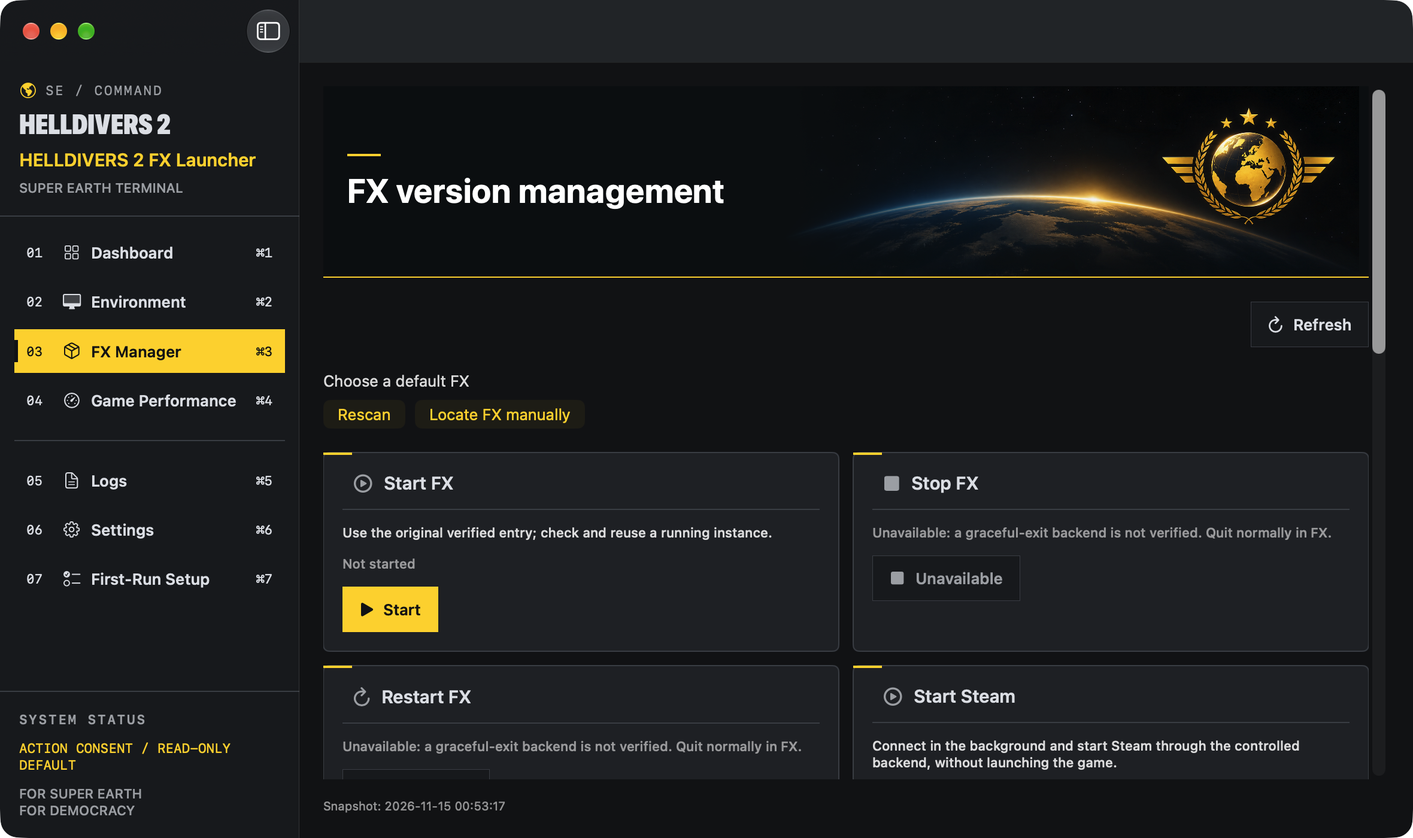
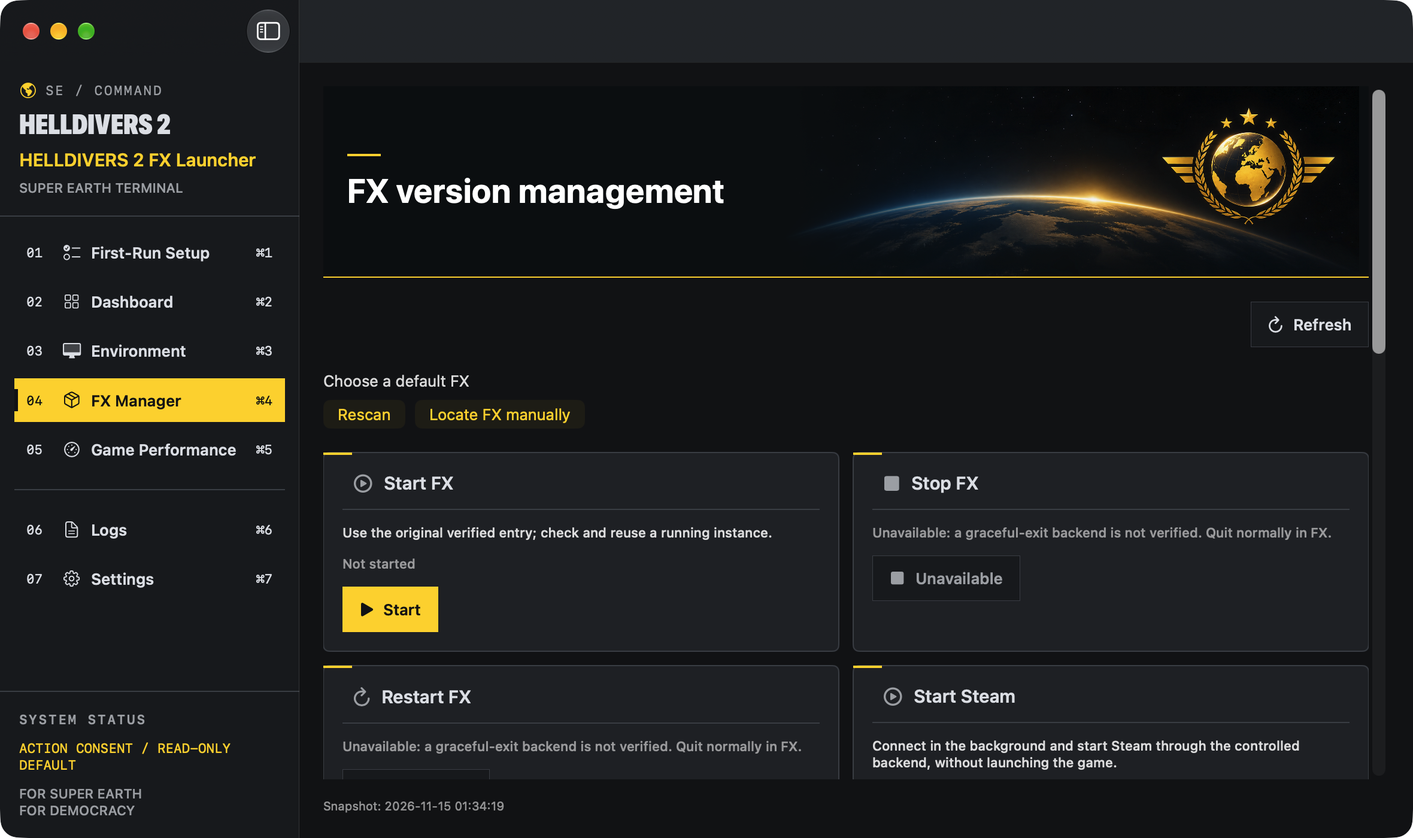
ui: redesign tactical workflows and reorder navigation

diff --git a/native-app/Views/FirstRunSetupView.swift b/native-app/Views/FirstRunSetupView.swift
@@ -4,6 +4,7 @@ struct FirstRunSetupView: View {
     @ObservedObject var state: AppState
     @ObservedObject var tasks: TaskManager
     @ObservedObject var credentials: SessionCredentialManager
+    @Environment(\.colorScheme) private var scheme
     @State private var authorize = false
     @State private var fexAction: String?
     @State private var recoverID: UUID?
@@ -49,54 +50,66 @@ struct FirstRunSetupView: View {
         return state.firstRunState == .NotChecked ? "ui.workflow.idle" : "ui.setup.state." + state.firstRunState.rawValue
     }
     private var welcomeContent: some View {
-        VStack(alignment: .leading, spacing: 20) {
+        VStack(alignment: .leading, spacing: 16) {
             TacticalFlowMark()
-            Text(state.t("ui.art.welcomeTitle")).font(.system(size: 25, weight: .bold))
-            Text(state.t("ui.art.welcomeDetail")).foregroundStyle(.secondary)
-            TacticalPanel(number: "", title: state.t("ui.workflow.environment"), symbol: "checkmark.shield") {
-                TacticalInfoRow(title: "FX", value: state.t(state.fxSelection.selected != nil ? "ui.219" : "ui.210"))
-                TacticalInfoRow(title: "SteamOS", value: state.t(state.credentials.guestBoot != nil ? "ui.credentials.status.connected" : "ui.credentials.status.idle"))
-                TacticalInfoRow(title: state.t("ui.135"), value: state.t(setupStatusKey))
-            }
-            TacticalPanel(number: "", title: state.t("ui.workflow.configure"), symbol: "wrench.and.screwdriver") {
+            Text(state.t("ui.art.welcomeTitle"))
+                .font(.system(size: 29, weight: .heavy)).fixedSize(horizontal: false, vertical: true)
+            Text(state.t("ui.art.welcomeDetail")).font(.body).foregroundStyle(.secondary)
+                .fixedSize(horizontal: false, vertical: true)
+            HStack(alignment: .center, spacing: 12) {
+                Image(systemName: "checkmark.shield").font(.title2).foregroundStyle(TacticalColors(scheme: scheme).accent).accessibilityHidden(true)
+                VStack(alignment: .leading, spacing: 5) {
+                    Text(state.t("ui.workflow.environment")).font(.headline)
+                    VStack(alignment: .leading, spacing: 3) {
+                        HStack(alignment: .top) { Text(verbatim: "FX"); Text(state.t(state.fxSelection.selected != nil ? "ui.219" : "ui.210")) }
+                        HStack(alignment: .top) { Text(verbatim: "SteamOS"); Text(state.t(state.credentials.guestBoot != nil ? "ui.credentials.status.connected" : "ui.credentials.status.idle")) }
+                    }.font(.caption).foregroundStyle(.secondary).fixedSize(horizontal: false, vertical: true)
+                    Text(state.t(setupStatusKey)).font(.caption).foregroundStyle(.secondary)
+                }
+            }.padding(.vertical, 4)
+            VStack(alignment: .leading, spacing: 0) {
+                Text(state.t("ui.workflow.configure")).font(.headline).padding(.bottom, 8)
                 TacticalFlowStep(number: "01", title: state.t("ui.setup.fx"), symbol: "shippingbox")
                 TacticalFlowStep(number: "02", title: state.t("ui.setup.detect"), symbol: "magnifyingglass")
                 TacticalFlowStep(number: "03", title: state.t("ui.setup.deploy"), symbol: "wrench.and.screwdriver")
                 TacticalFlowStep(number: "04", title: state.t("ui.workflow.result"), symbol: "checkmark.shield")
-                TacticalButton(title: state.t("ui.workflow.begin"), symbol: "play.fill", primary: true, disabledReason: tasks.busy ? state.t("ui.014") : nil, fillsWidth: true) {
-                    state.startEnvironmentWorkflow(launchGame: false)
-                }
             }
-            TacticalFlowMark()
+            TacticalButton(title: state.t("ui.workflow.begin"), symbol: "play.fill", primary: true, disabledReason: tasks.busy ? state.t("ui.014") : nil, fillsWidth: true) {
+                state.startEnvironmentWorkflow(launchGame: false)
+            }
             EnvironmentWorkflowProgressView(state: state, tasks: tasks)
+            TacticalFlowFooter()
         }
     }
     private func completionContent(_ plan: DeploymentPlan) -> some View {
-        VStack(alignment: .leading, spacing: 20) {
+        VStack(alignment: .leading, spacing: 16) {
             TacticalFlowMark()
-            Text(state.t("ui.art.completedTitle")).font(TacticalTypography.module)
-            Text(state.t("ui.setup.acceptance")).foregroundStyle(.secondary)
-            TacticalPanel(number: "", title: state.t("ui.workflow.environment"), symbol: "checkmark.shield") {
-                ForEach(plan.operations) { operation in
-                    TacticalInfoRow(title: state.t("ui.setup.component." + operation.component), value: state.t(statusKey(operation)))
+            HStack(alignment: .center, spacing: 16) {
+                Image(systemName: "checkmark.seal.fill").font(.system(size: 48)).foregroundStyle(TacticalColors(scheme: scheme).accent).accessibilityHidden(true)
+                Text(state.t("ui.art.completedTitle")).font(.system(size: 27, weight: .heavy))
+                    .fixedSize(horizontal: false, vertical: true)
+            }
+            Text(state.t("ui.setup.acceptance")).foregroundStyle(.secondary).fixedSize(horizontal: false, vertical: true)
+            VStack(alignment: .leading, spacing: 0) {
+                Text(state.t("ui.workflow.environment")).font(.headline).padding(.bottom, 9)
+                ForEach(Array(plan.operations.enumerated()), id: \.element.id) { index, operation in
+                    HStack(spacing: 10) {
+                        Text(String(format: "%02d", index + 1)).font(TacticalTypography.log).foregroundStyle(TacticalColors(scheme: scheme).accent).accessibilityHidden(true)
+                        Text(state.t("ui.setup.component." + operation.component)).fixedSize(horizontal: false, vertical: true)
+                        Spacer(minLength: 8)
+                        Text(state.t(statusKey(operation))).font(.caption.weight(.semibold)).multilineTextAlignment(.trailing)
+                    }.padding(.vertical, 7)
+                    TacticalDivider()
                 }
             }
-            ViewThatFits(in: .horizontal) {
-                HStack(spacing: 10) { completionActions }
-                VStack(alignment: .leading, spacing: 10) { completionActions }
-            }
-            TacticalFlowMark()
-        }
-    }
-    private var completionActions: some View {
-        Group {
-            TacticalButton(title: state.t("ui.176"), symbol: "play.fill", primary: true, disabledReason: tasks.busy ? state.t("ui.014") : nil) {
+            TacticalButton(title: state.t("ui.176"), symbol: "play.fill", primary: true, disabledReason: tasks.busy ? state.t("ui.014") : nil, fillsWidth: true) {
                 state.selection = .dashboard
                 state.perform(.game)
             }
             TacticalButton(title: state.t("ui.workflow.retry"), symbol: "arrow.clockwise", primary: false, disabledReason: tasks.busy ? state.t("ui.014") : nil) {
                 state.startEnvironmentWorkflow(launchGame: false)
             }
+            TacticalFlowFooter()
         }
     }
     var body: some View {
@@ -267,6 +280,7 @@ struct FirstRunSetupView: View {
 struct EnvironmentWorkflowProgressView: View {
     @ObservedObject var state: AppState
     @ObservedObject var tasks: TaskManager
+    @Environment(\.colorScheme) private var scheme
     var showIdle = false
     var showStepsInline = false
     var returnToDashboard: (() -> Void)? = nil
@@ -275,8 +289,15 @@ struct EnvironmentWorkflowProgressView: View {
     private var stepRows: some View {
         ForEach(Array([EnvironmentWorkflowPhase.startingFX, .connecting, .detecting, .deploying, .verifying, .launching].prefix(workflow.totalSteps).enumerated()), id: \.offset) { index, phase in
             let stepKeys = ["ui.setup.fx", "ui.setup.connect", "ui.setup.detect", "ui.setup.deploy", "ui.workflow.result", "ui.176"]
-            Label(state.t(stepKeys[index]), systemImage: index < workflow.completedSteps ? "checkmark.circle" : workflow.active && phase == workflow.phase ? "arrow.right.circle" : "circle.dashed")
-                .font(TacticalTypography.caption)
+            let done = index < workflow.completedSteps
+            let current = workflow.active && phase == workflow.phase
+            HStack(spacing: 10) {
+                Text(String(format: "%02d", index + 1)).font(TacticalTypography.log).foregroundStyle(.secondary).accessibilityHidden(true)
+                Label(state.t(stepKeys[index]), systemImage: done ? "checkmark.circle.fill" : current ? "arrow.right.circle.fill" : "circle.dashed")
+                    .foregroundStyle(done ? TacticalColors(scheme: scheme).success : current ? TacticalColors(scheme: scheme).accent : Color.secondary)
+                    .font(TacticalTypography.caption.weight(current ? .bold : .regular))
+                Spacer(minLength: 0)
+            }.padding(.vertical, 5)
         }
     }
     private var stepDetails: some View {
@@ -287,12 +308,13 @@ struct EnvironmentWorkflowProgressView: View {
             Text(verbatim: "ID: " + workflow.taskID.uuidString).font(.caption.monospaced()).textSelection(.enabled)
         }
     }
-    var body: some View {
-        if showIdle || workflow.phase != .idle {
-            TacticalPanel(number: "", title: state.t(workflow.launchesGame ? "ui.176" : "ui.workflow.result"), symbol: workflow.launchesGame ? "play.rectangle" : "gearshape.2") {
+    private var workflowContent: some View {
+        VStack(alignment: .leading, spacing: 12) {
                 HStack {
-                    Text(workflow.phase == .launching ? state.launchSession.current.title(state.languageCode) :
-                         state.t(workflow.launchesGame && workflow.phase == .failed ? "ui.179" : workflow.phase.titleKey))
+                    if !showStepsInline || workflow.phase == .launching {
+                        Text(workflow.phase == .launching ? state.launchSession.current.title(state.languageCode) :
+                             state.t(workflow.launchesGame && workflow.phase == .failed ? "ui.179" : workflow.phase.titleKey))
+                    }
                     Spacer()
                     if workflow.showsProgress { Text("\(workflow.completedSteps) / \(workflow.totalSteps)").monospacedDigit() }
                 }
@@ -303,7 +325,7 @@ struct EnvironmentWorkflowProgressView: View {
                     }
                 }
                 if workflow.active {
-                    ProgressView().tint(.yellow)
+                    ProgressView().tint(TacticalColors(scheme: scheme).accent)
                 }
                 if let failure = workflow.failure {
                     Text(failure.code == "ARTIFACT_UNAPPROVED" && failure.details["component"]?.text == "fex"
@@ -339,6 +361,29 @@ struct EnvironmentWorkflowProgressView: View {
                     Button(state.t(workflow.launchesGame ? "ui.176" : "ui.workflow.retry")) {
                         state.startEnvironmentWorkflow(launchGame: workflow.launchesGame)
                     }.disabled(tasks.busy)
+                }
+        }.frame(maxWidth: .infinity, alignment: .leading)
+    }
+    var body: some View {
+        if showIdle || workflow.phase != .idle {
+            Group {
+                if showStepsInline {
+                    VStack(alignment: .leading, spacing: 18) {
+                        HStack(spacing: 12) {
+                            Image(systemName: "scope").font(.system(size: 32)).foregroundStyle(TacticalColors(scheme: scheme).accent).accessibilityHidden(true)
+                            Text(state.t(workflow.phase.titleKey)).font(.system(size: 25, weight: .heavy))
+                                .fixedSize(horizontal: false, vertical: true)
+                        }
+                        TacticalDivider()
+                        workflowContent
+                    }
+                    .padding(18)
+                    .background(.primary.opacity(0.035))
+                    .overlay(alignment: .leading) { Rectangle().fill(TacticalColors(scheme: scheme).accent).frame(width: 3) }
+                } else {
+                    TacticalPanel(number: "", title: state.t(workflow.launchesGame ? "ui.176" : "ui.workflow.result"), symbol: workflow.launchesGame ? "play.rectangle" : "gearshape.2") {
+                        workflowContent
+                    }
                 }
             }
             .sheet(isPresented: Binding(get: { state.pendingFEXApproval != nil && !tasks.busy }, set: { if !$0 { state.cancelFEXApproval() } })) {

diff --git a/native-app/App/DesignSystem/TacticalComponents.swift b/native-app/App/DesignSystem/TacticalComponents.swift
@@ -336,26 +336,85 @@ struct TacticalFlowArtwork<Content: View>: View {
     let asset: String
     @ViewBuilder let content: Content
     @State private var availableWidth: CGFloat = 0
+    @Environment(\.colorScheme) private var scheme
     var body: some View {
-        HStack(alignment: .top, spacing: 20) {
+        let c = TacticalColors(scheme: scheme)
+        let showArt = availableWidth >= 860
+        let artWidth = min(420, max(320, availableWidth * 0.36))
+        HStack(alignment: .top, spacing: 24) {
             content.fixedSize(horizontal: false, vertical: true).frame(maxWidth: .infinity, alignment: .topLeading)
-            if availableWidth >= 860 {
-                Image(asset)
-                    .resizable().scaledToFit()
-                    .frame(width: 320)
-                    .overlay(RoundedRectangle(cornerRadius: 6).stroke(Color.gray.opacity(0.4)))
-                    .accessibilityHidden(true)
-                    .allowsHitTesting(false)
+            if showArt {
+                VStack(alignment: .trailing, spacing: 8) {
+                    HStack(spacing: 5) {
+                        Rectangle().fill(c.accent).frame(width: 40, height: 3)
+                        Rectangle().fill(c.line).frame(height: 1)
+                        Image(systemName: "star.fill").font(.system(size: 9)).foregroundStyle(c.accent)
+                    }
+                    Image(asset).resizable().scaledToFit().frame(width: artWidth)
+                        .overlay(RoundedRectangle(cornerRadius: 4).stroke(c.line, lineWidth: 1))
+                    TacticalHazardBand().frame(width: 106, height: 9)
+                }
+                .frame(width: artWidth)
+                .accessibilityHidden(true).allowsHitTesting(false)
             }
         }
+        .padding(.horizontal, 18).padding(.vertical, 20)
         .frame(maxWidth: .infinity, alignment: .leading)
         .background {
-            GeometryReader { geometry in
-                Color.clear
+            ZStack {
+                LinearGradient(colors: [c.panel.opacity(0.65), c.background, c.panel.opacity(0.3)], startPoint: .topLeading, endPoint: .bottomTrailing)
+                TacticalFlowBackdrop().foregroundStyle(c.accent.opacity(scheme == .dark ? 0.08 : 0.11))
+                GeometryReader { geometry in
+                    Color.clear
                     .onAppear { availableWidth = geometry.size.width }
                     .onChange(of: geometry.size.width) { _, width in availableWidth = width }
+                }
             }
         }
+        .overlay(alignment: .topLeading) { Rectangle().fill(c.accent).frame(width: 58, height: 3) }
+    }
+}
+
+/// Background graphics are decorative and carry no state or interaction.
+private struct TacticalFlowBackdrop: View {
+    var body: some View {
+        Canvas { context, size in
+            for index in 0..<7 {
+                let x = CGFloat(index) * 105
+                var path = Path(); path.move(to: CGPoint(x: x, y: size.height)); path.addLine(to: CGPoint(x: x + size.height * 0.55, y: 0))
+                context.stroke(path, with: .foreground, lineWidth: 1)
+            }
+        }.accessibilityHidden(true).allowsHitTesting(false)
+    }
+}
+
+struct TacticalHazardBand: View {
+    @Environment(\.colorScheme) private var scheme
+    var body: some View {
+        Canvas { context, size in
+            let color = TacticalColors(scheme: scheme).accent
+            for index in 0..<18 {
+                let x = CGFloat(index) * 16
+                var path = Path(); path.move(to: CGPoint(x: x, y: size.height)); path.addLine(to: CGPoint(x: x + 6, y: 0)); path.addLine(to: CGPoint(x: x + 13, y: 0)); path.addLine(to: CGPoint(x: x + 7, y: size.height)); path.closeSubpath()
+                context.fill(path, with: .color(color))
+            }
+        }.clipped().accessibilityHidden(true).allowsHitTesting(false)
+    }
+}
+
+struct TacticalFlowFooter: View {
+    @Environment(\.colorScheme) private var scheme
+    var body: some View {
+        let c = TacticalColors(scheme: scheme)
+        HStack(alignment: .bottom, spacing: 12) {
+            VStack(alignment: .leading, spacing: 5) {
+                TacticalHazardBand().frame(width: 132, height: 13)
+                Rectangle().fill(c.accent).frame(width: 92, height: 3)
+                Rectangle().fill(c.line).frame(width: 148, height: 1)
+            }
+            Image(systemName: "shield.lefthalf.filled").font(.system(size: 23, weight: .bold)).foregroundStyle(c.accent)
+            Rectangle().fill(c.line).frame(maxWidth: .infinity).frame(height: 1)
+        }.padding(.top, 12).accessibilityHidden(true).allowsHitTesting(false)
     }
 }
 

diff --git a/native-app/Views/DashboardView.swift b/native-app/Views/DashboardView.swift
@@ -27,7 +27,7 @@ struct DashboardView: View {
                     TacticalFlowMark()
                     EnvironmentWorkflowProgressView(state: state, tasks: tasks, showStepsInline: true, returnToDashboard: { showingOverview = true })
                     TacticalButton(title: state.t("ui.092"), symbol: "square.grid.2x2", primary: false) { showingOverview = true }
-                    TacticalFlowMark()
+                    TacticalFlowFooter()
                 }
             }
             if let error = state.error { TacticalWarningBanner(text: error.message(state.languageCode) + " · " + error.code, isError: true) }

diff --git a/native-app/Models/Navigation.swift b/native-app/Models/Navigation.swift
@@ -1,7 +1,7 @@
 import SwiftUI
 
 enum Page: String, CaseIterable, Identifiable {
-    case dashboard, environment, fx, performance, logs, settings, setup
+    case setup, dashboard, environment, fx, performance, logs, settings
     var id: String { rawValue }
     var menuTitle: String { title("en") }
     var symbol: String {

diff --git a/docs/UI_DESIGN_GUIDELINES.md b/docs/UI_DESIGN_GUIDELINES.md
@@ -6,9 +6,15 @@ Read this document before UI development. Reuse the implementation in `native-ap
 
 Keep the dark HELLDIVERS 2 tactical identity, yellow emphasis for primary actions, clear information hierarchy and restrained decoration. Use `TacticalPageHeader` for secondary-page titles and the existing dashboard presentation for the overview. Keep action controls in content areas, aligned consistently, and use adaptive layouts for narrow windows and long translations. Use `TacticalPanel`, metrics and status badges for related evidence; distinguish unchecked, checking, success, warning, failure and uncertainty without inventing health. Approved reference images guide composition and tactical details, while actual service evidence determines all text, actions and states. Reuse `TacticalFlowMark` and `TacticalFlowStep` for restrained numbered and angled accents.
 
+## Navigation and workflow composition
+
+The sidebar order is first-run setup, dashboard, environment, FX manager, game performance, logs and settings. Derive numbering and Command shortcuts from this shared order. Preserve dashboard as the default and do not restart configuration for existing users.
+
+Compose welcome, verified completion and launch preparation as related command-terminal scenes, not generic stacked cards next to an isolated poster. Use a clear primary heading, evidence-bound status, a prominent real action, the complete large right-hand artwork and reusable tactical background and lower-left hazard detail. Distinguish pending, active, completed, failed and cancelled from the actual workflow state. Reference images guide visual hierarchy only; do not introduce fictional states or actions.
+
 ## Artwork and attribution
 
-Keep the Dashboard hero unchanged unless explicitly requested. The shared `TacticalPageHeader` starfield, Earth sunrise, Super Earth emblem, left title and yellow divider are protected; do not replace or cover them with new illustrations. Use `TacticalFlowArtwork` for the first-run welcome, setup completion and game-launch preparation flows: it places artwork at a shared right-hand width and inset, hides it when controls need the space, and follows each source's aspect ratio without large empty bands. Different source proportions require different heights to show complete works without cropping. Preserve original artwork and aspect ratio; never crop, recolor or modify it without authorization. Do not add permanent artwork to the environment, performance, logs or FX-management pages. Decoration must not obscure text, compress controls or block actions. Record third-party authorship and permission, and visually review substantial changes with real App screenshots.
+Keep the Dashboard hero unchanged unless explicitly requested. The shared `TacticalPageHeader` starfield, Earth sunrise, Super Earth emblem, left title and yellow divider are protected; do not replace or cover them with new illustrations. Use `TacticalFlowArtwork` for the first-run welcome, setup completion and game-launch preparation flows: it places artwork at a shared adaptive right-hand width and inset, hides it when controls need the space, and follows each source's aspect ratio without large empty bands. Different source proportions require different heights to show complete works without cropping. Preserve original artwork and aspect ratio; never crop, recolor or modify it without authorization. Do not add permanent artwork to the environment, performance, logs or FX-management pages. Decoration must not obscure text, compress controls or block actions. Record third-party authorship and permission, and visually review substantial changes with real App screenshots.
 
[1 lines of base64/hex data omitted]
 

diff --git a/AGENTS.md b/AGENTS.md
@@ -1,7 +1,7 @@
 # HD2FXNative development rules
 
-Instruction version: **v1.2.29** · Updated: **2026-11-15**.
-Change: combine GitHub delivery and version release gates with reference fidelity, product naming and workflow artwork review. Instruction version is independent of App version.
+Instruction version: **v1.2.30** · Updated: **2026-11-15**.
+Change: establish setup-first navigation and integrated tactical workflow composition. Instruction version is independent of App version.
 
 ## Authority and task lifecycle
 
@@ -58,4 +58,6 @@ All subsequent UI work must first follow `docs/UI_DESIGN_GUIDELINES.md`: read th
 - Review changed pages for visual consistency, action placement and duplication, clipping, loading, errors and accessibility. For ordinary visual iterations inspect Chinese and English in light/dark and wide/narrow layouts; expand review when localization or other languages are affected. Maintain automated checks and all ten languages. Provide real App screenshots for substantial visual changes; routine code changes do not require screenshots. Clearly label fixture previews and never present them as live success.
 
 - Protect the Dashboard hero and the shared secondary-page starfield, sunrise and Super Earth emblem header; never replace or cover them with new illustrations. Restrict MOTR7 artwork to the first-run welcome, verified setup completion and game-launch preparation flows. Place it on the right using the shared adaptive container, consistent size and spacing; hide it when room is insufficient for controls. Preserve the whole original image and its aspect ratio. Record third-party authorship and permission. Workflow success and progress must come from actual service evidence; never fabricate them for presentation. Artwork must not reduce readability or impede actions. Review every substantial visual change with real App screenshots.
+- Keep sidebar order: first-run setup, dashboard, environment, FX, performance, logs, settings; derive visible numbers and Command shortcuts from the same order while keeping the dashboard as the ordinary default.
+- Build the three artwork flows as cohesive command-terminal compositions with reusable lower-left tactical decoration, clear evidence and action hierarchy, and full-size right-hand artwork; do not settle for unrelated standard cards beside a poster.
 - User-facing product names are `绝地潜兵 2 FX 启动器` and `HELLDIVERS 2 FX Launcher`; localize product naming consistently and reserve `HD2FXNative` for engineering. Treat approved reference images as visual guidance, not evidence of functionality or state. Reuse tactical decoration components, avoid isolated miniature posters and meaningless image padding, and preserve complete authorized artwork.

diff --git a/docs/images/README.md b/docs/images/README.md
@@ -74,3 +74,7 @@ The fourteen README page images were recaptured from isolated Debug build 202611
 2026-11-15 merge review: seven idle pages and the software-update viewport per language were recaptured and visually reviewed from the 1.0.2 / 2026111501 isolated Debug candidate (base `afc1158`, integrating main `b967ccd`). Performance screenshots contain read-only hardware and preference values. Setup completion and game launch remain unverified; no FX, SSH, Guest or game action was performed.
 
 2026-11-15 合并审核：中英文各七页和软件更新视口均从 1.0.2 / 2026111501 隔离 Debug 候选重拍并审核（基于 `afc1158`，整合 main `b967ccd`）。性能截图含只读硬件和偏好值；真实配置完成及游戏启动未验证，采集未执行 FX、SSH、Guest 或游戏操作。
+
+2026-11-15 redesign review: seven idle pages per language were visually reviewed after the setup-first sidebar change; the two welcome pages were recaptured after the final status-label adjustment. Build 1.0.2 / 2026111501, dirty source based on `f862623`. Original window pixels, no FX/SSH/Guest/game action. Separately marked DEBUG fixture previews are in `reviews/motr7-redesign-20261115` and do not establish real setup or launch success.
+
+2026-11-15 重新设计审核：中英文七个空闲页面已按新侧边栏顺序审核；欢迎页在状态标签最后调整后重拍。构建 1.0.2 / 2026111501，基于 `f862623` 的未提交源码。保留窗口原始像素，未执行 FX、SSH、Guest 或游戏操作；模拟完成及启动预览单独标注，不代表真实成功。

diff --git a/docs/images/reviews/motr7-redesign-20261115/README.md b/docs/images/reviews/motr7-redesign-20261115/README.md
@@ -1,0 +1,10 @@
+# MOTR7 redesign review captures
+
+Debug 1.0.2 build 2026111501, dirty source based on f862623; screenshots retain original window pixels. Welcome images show real idle App windows with isolated preferences. Completion and launch images are DEBUG-only fixture previews, marked on-screen and with interaction disabled; they do not demonstrate live setup or game success. No FX, SSH, Guest, game or updater action was initiated. The menu shows the updated navigation order.
+
[6 lines of base64/hex data omitted]

diff --git a/README.md b/README.md
@@ -36,7 +36,7 @@ The Dashboard retains five cards: FX, virtual machine, Steam, EAC and multiplaye
 
 ### Features
 
-Unreleased setup and launch workflow artwork is by **MOTR7**, used with the artist’s permission as supplied by the user. The Dashboard hero and shared page header are unchanged.
+Unreleased setup and launch workflow artwork is by **MOTR7**, used with the artist’s permission as supplied by the user. The Dashboard hero and shared page header are unchanged. First-Run Setup is first in the sidebar (⌘1); Dashboard remains the default (⌘2).
 
 **Unreleased UI:** Environment, FX Manager and Logs use a shared content-area snapshot refresh. The FX details view reuses inspection evidence to avoid repeated hashing during redraw.
 

diff --git a/CHANGELOG.md b/CHANGELOG.md
@@ -8,6 +8,8 @@ v1.0.1 (2026111406) is the latest published stable release. Fresh SteamOS deploy
 
 ## Unreleased
 
+- Redesign the setup and launch-preparation scenes as tactical workflow layouts; move First-Run Setup to sidebar position 01 and synchronize Command shortcuts. Dashboard remains the default.
+
 - Add original MOTR7 artwork to setup and launch workflows and an artwork credit in Settings; preserve the Dashboard hero and shared header.
 
 - Move snapshot refresh into a shared content-area action on Environment, FX and Logs; avoid repeated resource hashing during FX view updates. Add shared UI design standards and disable first-run rescan during tasks.
